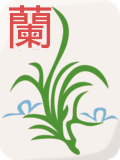
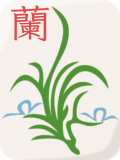
聯機胡牌轉送、離房語音與候房版面收尾

Changed region(s): [[0.075, 0.0312, 0.45, 0.3125]]

diff --git a/index.html b/index.html
@@ -9,7 +9,7 @@
 <link rel="preconnect" href="https://fonts.googleapis.com" />
 <link rel="preconnect" href="https://fonts.gstatic.com" crossorigin />
 <link href="https://fonts.googleapis.com/css2?family=Noto+Sans+TC:wght@400;500;700&display=swap" rel="stylesheet" />
-<link rel="stylesheet" href="css/style.css?v=1.4.60" />
+<link rel="stylesheet" href="css/style.css?v=1.4.62" />
 </head>
 <body>
 <canvas id="game" aria-label="釣魚遊戲畫面"></canvas>
@@ -122,6 +122,9 @@
     </label>
     <div id="roomAvatars" class="room-avatars" aria-label="玩家頭像"></div>
     <div id="roomPlayers" class="room-players"></div>
+    <div class="room-emoji-row">
+      <button id="roomEmojiBtn" class="secondary" type="button" aria-haspopup="true" aria-expanded="false">表情</button>
+    </div>
     <p id="roomGuestInfo" class="room-guest-info" hidden>(由房主設定)</p>
     <div id="roomHostControls" class="room-host-controls">
       <label class="field">鉤速
@@ -183,7 +186,6 @@
       </label>
     </div>
     <div class="room-actions">
-      <button id="roomEmojiBtn" class="secondary" type="button" aria-haspopup="true" aria-expanded="false">表情</button>
       <button id="roomStart" class="primary" type="button" hidden>開始遊戲</button>
       <button id="roomLeave" class="secondary" type="button">離開房間</button>
     </div>
@@ -268,7 +270,9 @@
     <p>Tiles: FluffyStuff / Lilia Chen May Wither, CC0.</p>
     <p><a href="https://github.com/FluffyStuff/riichi-mahjong-tiles" target="_blank" rel="noopener noreferrer">牌面素材（FluffyStuff）</a>　·　<a href="https://github.com/DrCMWither/mahjong-tiles" target="_blank" rel="noopener noreferrer">花牌素材（Lilia Chen May Wither）</a>　·　<a href="https://creativecommons.org/publicdomain/zero/1.0/" target="_blank" rel="noopener noreferrer">CC0 1.0</a></p>
     <p>Music: neolein / f-r-a-g-i-l-e / Ehved, CC0, via Freesound.</p>
+    <p>SFX: Detective_Lemons, CC0, via Freesound.</p>
     <p>背景音樂：四段 CC0 中國風器樂，來自 Freesound（neolein、f-r-a-g-i-l-e、Ehved）。</p>
+    <p>打牌音效：<a href="https://freesound.org/s/785585/" target="_blank" rel="noopener noreferrer">tiles fall on corkboard（Detective_Lemons）</a>，CC0；截取單次麻將牌撞擊聲。</p>
     <p><a href="https://freesound.org/s/573972/" target="_blank" rel="noopener noreferrer">A ride through chinese valley</a>　·　<a href="https://freesound.org/s/521367/" target="_blank" rel="noopener noreferrer">blossom valley in paradise</a>　·　<a href="https://freesound.org/s/666269/" target="_blank" rel="noopener noreferrer">lotus guzheng chops Cm</a>　·　<a href="https://freesound.org/s/565196/" target="_blank" rel="noopener noreferrer">Erhu Melodic Loop</a>　·　<a href="https://creativecommons.org/publicdomain/zero/1.0/" target="_blank" rel="noopener noreferrer">CC0 1.0</a></p>
     <p>花牌與番數規則：<a href="https://zh.wikipedia.org/wiki/%E9%A6%99%E6%B8%AF%E9%BA%BB%E9%9B%80%E8%83%A1%E7%89%8C%E5%88%97%E8%A1%A8" target="_blank" rel="noopener noreferrer">香港麻雀番牌列表（維基百科）</a>。</p>
     <p>詳見 <code>CREDITS.md</code>。</p>
@@ -276,6 +280,6 @@
 </section>
 
 <script src="https://cdn.jsdelivr.net/npm/peerjs@1.5.4/dist/peerjs.min.js" onerror="this.onerror=null;this.src='js/vendor/peerjs.min.js'"></script>
-<script type="module" src="js/game.js?v=1.4.60"></script>
+<script type="module" src="js/game.js?v=1.4.62"></script>
 </body>
 </html>

diff --git a/js/game.js b/js/game.js
@@ -7,7 +7,7 @@ import {
   TILE_IDS, TILE_INFO, FLOWER_IDS, isFlower, loadImages, drawTile,
   createTileElement, tileName,
 } from './tiles.js';
-import { createMusic } from './audio.js?v=1.4.60';
+import { createMusic } from './audio.js?v=1.4.62';
 import { createNet, randomPlayerId } from './net.js';
 import { settleRound } from './payout.js';
 import {
@@ -499,6 +499,12 @@ function showToast(text, ms = 4500) {
     ui.toast.classList.remove('show');
     game.toastTimer = null;
   }, ms);
+}
+
+/** Room notices are shown and read aloud; unsupported browsers stay silent. */
+function announceNotice(text, ms) {
+  showToast(text, ms);
+  speakCantonese(text);
 }
 
 /** Floating emoji bubbles appear beside each seat's avatar on the sea. */
@@ -3283,6 +3289,7 @@ function showHostLeft() {
     message: '房主已離開，請重新開房間',
     actions: [{ label: '返回主選單', onClick: () => ui.overlay.classList.remove('show') }],
   });
+  speakCantonese('房主已離開，請重新開房間');
 }
 
 function leaveMultiRoom() {
@@ -3483,12 +3490,16 @@ function wireNetEvents() {
   });
 
   net.on('win', (msg) => {
+    // Relay before validating locally: a guest's match snapshot can be one
+    // message behind the host's, but the other seats may still share that
+    // guest's round key. Dropping the notice here would leave them playing
+    // after the winner already settled.
+    if (net.isHost && msg.seat !== game.seat) net.broadcast(msg);
     // Repeats help surviving a dropped WebRTC message, but a win from an
     // already finished hand must never settle the next one.
     const liveKey = currentRoundKey();
     if (msg.roundKey && msg.roundKey !== liveKey
       && msg.roundKey !== game.match?.lastPayout?.roundKey) return;
-    if (net.isHost && msg.seat !== game.seat) net.broadcast(msg);
     const selfDraw = msg.selfDraw === undefined ? winIsSelfDraw(msg.result) : Boolean(msg.selfDraw);
     finishMultiWin(msg.seat, msg.result, msg.fanTotal, msg.bestFan, {
       discarder: msg.discarder ?? null,
@@ -3607,13 +3618,13 @@ function wireNetEvents() {
     const name = typeof msg.name === 'string' && msg.name.trim()
       ? msg.name : seatLabel(msg.seat);
     const text = `${name} 已離開房間。`;
-    showToast(text);
+    announceNotice(text);
     net.broadcast({ t: 'notice', message: text }, conn?.peer);
     fillSeatWithBot(game.players.find((item) => item.seat === msg.seat));
   });
 
   net.on('notice', (msg) => {
-    if (typeof msg.message === 'string') showToast(msg.message);
+    if (typeof msg.message === 'string') announceNotice(msg.message);
   });
 
   net.on('guestClose', (msg) => {
@@ -3623,7 +3634,7 @@ function wireNetEvents() {
     // A tab can close without sending `leave`; notify the remaining seats in
     // that case too. An explicit leave has already cleared the playerId above.
     const text = `${leaving.name || seatLabel(leaving.seat)} 已離開房間。`;
-    showToast(text);
+    announceNotice(text);
     net.broadcast({ t: 'notice', message: text });
     fillSeatWithBot(leaving);
   });

diff --git a/js/audio.js b/js/audio.js
@@ -112,9 +112,10 @@ export function createMusic() {
     }
   }
 
-  // Short synthesised UI effects. They share the music on/off switch and
-  // volume, need no assets, and are created only after a user gesture.
+  // The click is synthesised; the tile strike is a short CC0 Freesound
+  // recording. Both share the music on/off switch and volume.
   let context = null;
+  const TILE_SOUND = 'assets/audio/mahjong-tile-strike.mp3?v=1.4.61';
 
   function ensureContext() {
     if (context) return context;
@@ -150,8 +151,13 @@ export function createMusic() {
   }
 
   function tile() {
-    blip(210, 0.085, 'square', 0.16);
-    blip(330, 0.055, 'triangle', 0.1);
+    if (!enabled || volume <= 0) return;
+    try {
+      const effect = new Audio(TILE_SOUND);
+      effect.volume = Math.min(1, volume * 1.1);
+      const result = effect.play();
+      if (result?.catch) result.catch(() => {}); // sound is optional
+    } catch { /* sound is optional */ }
   }
 
   return {

diff --git a/css/style.css b/css/style.css
@@ -592,6 +592,8 @@ body.waiting-room #meldPanel { visibility: hidden; }
 }
 .room-player.you { background: rgba(140, 29, 29, 0.12); font-weight: 700; }
 .room-player-role { color: #666; font-size: 0.85em; }
+.room-emoji-row { display: flex; justify-content: center; margin: -4px 0 10px; }
+#roomEmojiBtn { background: #fff; color: #8c1d1d; border-color: #8c1d1d; padding: 4px 18px; }
 .room-host-controls { margin: 10px 0; text-align: left; }
 .room-host-controls.readonly .field { opacity: 0.72; }
 .room-host-controls.readonly input,

diff --git a/js/tiles.js b/js/tiles.js
@@ -99,7 +99,7 @@ export const EMOJI_TO_ID = Object.fromEntries(
 export const BACK_ID = 'BACK';
 export const TILE_IMAGE_DIR = 'assets/tiles/faces';
 // Bump after replacing runtime faces so browsers reload them without a hard refresh.
-export const TILE_ASSET_VERSION = 4;
+export const TILE_ASSET_VERSION = 5;
 
 export function tileImagePath(id) {
   const suffix = `?v=${TILE_ASSET_VERSION}`;

diff --git a/AGENTS.md b/AGENTS.md
@@ -64,7 +64,7 @@ the audio helper changes so UI sounds are not cached separately.
 | `js/payout.js` | Pure payout/settlement engine. Node-runnable; no DOM or storage. |
 | `js/game.js` | Browser orchestration: state machine, shared sea, canvas rendering, input, AI, network messages, HUD, settings and score UI. |
 | `js/net.js` | Thin PeerJS wrapper: room IDs, host/guest connections, message relay. |
-| `js/audio.js` | CC0 background-music player: five tracks, random next track, enable/volume controls. |
+| `js/audio.js` | CC0 background-music player plus a short CC0 tile-strike effect; enable/volume controls. |
 | `js/vendor/peerjs.min.js` | Local fallback when the CDN script fails. |
 | `assets/` | Runtime tile faces, underwater background, five MP3s. Source originals live under `assets/tiles/raw/` and `assets/bg/underwater.source.jpg`. |
 | `scripts/` | Asset download and processing scripts. Not part of runtime. |
@@ -294,8 +294,10 @@ T1–T13. Keep the seeded simulation meaningful: no exceptions, `wins > 0`, and 
 - **Authority.** The host owns the room code, seat list, fish sea, host-clock timer, catch and
   claim arbitration, AI seats, settings, and match snapshots. Guards keep private hands on each
   device: there is no dealing, no hand validation, and no server. Win results are evaluated
-  locally then broadcast with a `roundKey`; the host relays and settles with `win` + `match`, and
-  `match` alone is enough for a guest to show the terminal overlay if `win` was dropped.
+  locally then broadcast with a `roundKey`; the host relays `win` before checking its own round
+  key, then settles with `win` + `match`, so a guest whose match snapshot is one message behind
+  still reaches the other seats. `match` alone is enough for a guest to show the terminal overlay
+  if `win` was dropped.
 - **Message types.** `welcome`, `full`, `players`, `name`, `settings`, `start`, `discard`, `sea`,
   `time`, `hook`, `catch`, `catchRejected`, `fishCaught`, `flowers`, `claim`, `claimResult`,
   `meld`, `win`, `match`, `draw`, `emoji`, `rematch`, `rematchStatus`, `backToRoom`, `restartRequest`,
@@ -324,8 +326,9 @@ T1–T13. Keep the seeded simulation meaningful: no exceptions, `wins > 0`, and 
   `pagehide` and `beforeunload` call `notifyOthersOnExit()`: a closing guest sends `leave` to the
   host, a closing host broadcasts `hostGone` to guests, so seats change immediately instead of
   waiting for the WebRTC timeout. One notice per room is enforced across both events and reset
-  when a new room opens or a guest receives `welcome`. Guest departures show a notice and leave
-  the seat to AI; a deliberate leaver does not see the host-left message.
+  when a new room opens or a guest receives `welcome`. Guest departures show and speak a notice
+  on every remaining device and leave the seat to AI; a host departure speaks the fixed message.
+  A deliberate leaver does not see the host-left message.
 
 ## UI, HUD and layout
 
@@ -365,16 +368,17 @@ T1–T13. Keep the seeded simulation meaningful: no exceptions, `wins > 0`, and 
   stay visible but disabled while the rod is out; the grey `過` dismissal stays enabled and hides
   only its own box.
 - The `表情` chip opens a fixed emoji picker (`emojiPanel`) with 12 emojis; the same chip and id
-  `roomEmojiBtn` also sit in the waiting-room `room-actions`, available to host and guests before
-  the deal. `toggleEmojiPanel(anchor)` positions the picker under whichever chip was pressed.
+  `roomEmojiBtn` sits directly under `#roomPlayers` in the waiting room, available to host and
+  guests before the deal. `toggleEmojiPanel(anchor)` positions the picker under whichever chip was
+  pressed.
   Picking an emoji calls `sendEmoji()`, sends `{t:'emoji', seat, emoji}` (host relays to other
   guests) and appends a `#emojiLayer` bubble beside that seat's sea avatar, or beside the matching
   `.room-avatar` while `body.waiting-room` is active. The layer sits above modals (`z-index:65`) but
   is `pointer-events:none` so casts, room controls and HUD clicks still work; bubbles remove
   themselves on `animationend`. The picker closes on outside click, Escape, resize or selection.
-- A document-level click listener plays a short WebAudio click for every enabled `<button>`, and
-  `discard()` plays a tile clap via `music.tile()`. Both live in `js/audio.js`, share the
-  `mf-sound` / `mf-volume` settings, and need no new assets or storage keys.
+- A document-level click listener plays a short WebAudio click for every enabled `<button>`, while
+  `discard()` plays `assets/audio/mahjong-tile-strike.mp3` via `music.tile()`. Both live in
+  `js/audio.js` and share the `mf-sound` / `mf-volume` settings; no storage keys are added.
 - Modals: ordinary modals close on backdrop click, but `overlay`, `loading`, `menuScreen`,
   `joinScreen` and `roomScreen` never do. The in-game 設定／玩法說明／計分 panels and the
   `重新開始投票` overlay are informational — they block input but not simulation. In-game

diff --git a/CREDITS.md b/CREDITS.md
@@ -6,7 +6,7 @@
 - 授權：**CC0 1.0**（公有領域貢獻）。
 - 處理方式：透明牌面疊加在 `Front.png` 上，再縮放為 120×160 的 `assets/tiles/faces/*.png`。原始下載檔保留在 `assets/tiles/raw/`，以便重新產生。
 - 8 張花牌（春、夏、秋、冬、梅、蘭、菊、竹）改用 [DrCMWither/mahjong-tiles](https://github.com/DrCMWither/mahjong-tiles) 的 `tiles-tmp/1f.svg`–`8f.svg`，作者 **Lilia Chen May Wither**；artwork 延展自上述 FluffyStuff 牌面，並以 **CC0 1.0** 發布。原始 SVG 與預先柵格化的 PNG 存放於 `assets/tiles/raw/flowers/`，再由 `scripts/process_assets.py` 疊在上述 CC0 `Front.png` 底圖上並縮放為 120×160 的 `H1.png`–`H8.png`。
-- 「蘭」牌 `H6.png` 上的紅色字樣已由簡體「兰」修正為繁體「蘭」；其餘花牌 artwork 保持原樣。
+- 「蘭」牌 `H6.png` 的紅色字樣已由簡體「兰」修正為繁體「蘭」，並改用與其他花牌相近的楷書筆觸。字形輪廓取自 [LXGW WenKai TC](https://fonts.google.com/specimen/LXGW+WenKai+TC)（SIL Open Font License 1.1），已轉成路徑內嵌於 `6f.svg`；其餘花牌 artwork 保持原樣。
 
 > Tiles: FluffyStuff / Lilia Chen May Wither, CC0.
 
@@ -34,6 +34,12 @@
 - 授權條款：[CC0 1.0 Universal](https://creativecommons.org/publicdomain/zero/1.0/)。
 - 處理方式：下載 Freesound 的 HQ MP3 預覽檔，原檔放置在 `assets/audio/`，由 `js/audio.js` 隨機播放；每首播完後切換到不同曲目。
 
+## 打牌音效
+
+- 來源：[Detective_Lemons – tiles fall on corkboard](https://freesound.org/s/785585/)，Freesound，原本為電影《mahjong cowboy》錄製的麻將牌碰撞聲。
+- 授權：**CC0 1.0**（公有領域貢獻）。
+- 處理方式：從 HQ MP3 預覽檔截取一次清晰的牌張撞擊，正規化音量並加上極短淡入淡出，輸出為 `assets/audio/mahjong-tile-strike.mp3`；按鈕點擊音仍由 WebAudio 合成。
+
 ## 規則資料
 
 - 花牌、正花、一檯花、花糊與大花糊的番數及風位對應，參考[維基百科「香港麻雀番牌列表」](https://zh.wikipedia.org/wiki/%E9%A6%99%E6%B8%AF%E9%BA%BB%E9%9B%80%E8%83%A1%E7%89%8C%E5%88%97%E8%A1%A8)。
@@ -42,6 +48,7 @@
 ## 字型
 
 - [Noto Sans TC](https://fonts.google.com/noto/specimen/Noto+Sans+TC)，透過 Google Fonts 載入，SIL Open Font License 1.1。
+- 「蘭」花牌的楷書字形輪廓取自 [LXGW WenKai TC](https://fonts.google.com/specimen/LXGW+WenKai+TC)，SIL Open Font License 1.1；字型檔不包含在專案內，只嵌入產生的向量輪廓。
 - 若無法連線，會退回系統字型（PingFang TC / Microsoft JhengHei / system-ui）。
 
 ## 遊戲內標示
@@ -51,5 +58,5 @@
 完整字串：
 
 ```
-Background: Olivier Dugornay / Ifremer, CC BY 4.0, via Wikimedia Commons. Tiles: FluffyStuff / Lilia Chen May Wither, CC0. Music: neolein / f-r-a-g-i-l-e / Ehved, CC0, via Freesound.
+Background: Olivier Dugornay / Ifremer, CC BY 4.0, via Wikimedia Commons. Tiles: FluffyStuff / Lilia Chen May Wither, CC0. Music: neolein / f-r-a-g-i-l-e / Ehved, CC0, via Freesound. SFX: Detective_Lemons, CC0, via Freesound.
 ```

diff --git a/CHANGELOG.md b/CHANGELOG.md
@@ -2,6 +2,17 @@
 
 本專案由單檔 `index.html` 重構為純靜態多檔結構；所有原本列出的問題 B1–B25 都已修復或改由新的規則引擎保證，並以 `tests/rules.test.mjs`（64 項，含 T1–T13 與 1000 場隨機模擬）驗證。
 
+## 1.4.62 — 訪客胡牌同步與離房語音
+
+- 房主收到訪客的胡牌訊息時先轉送給其他座位，再檢查自己的局次；即使訪客的間局快照落後房主一步，其他玩家仍會收到並顯示同一個胡牌結算畫面。
+- 玩家離開房間時，剩餘裝置除了顯示提示，也會以粵語讀出離開者姓名；房主離開時讀出固定的「房主已離開，請重新開房間」。語音如前為加分功能，不影響連線或遊戲。
+
+## 1.4.61 — 候房表情位置、真實打牌音效與花牌字形
+
+- 候房「表情」按鈕移到四位玩家座位清單正下方，房主與訪客都更容易找到；開門表情選擇器仍會在按鈕下方展開。
+- 打出牌的碰撞聲改用 Freesound CC0 錄音中截取的單次麻將牌撞擊聲，按鈕點擊音維持 WebAudio 合成；兩者仍受「背景音樂」開關與音量控制。
+- 「蘭」花牌的紅色字樣改用與其他花牌相近的楷書筆觸，字型輪廓已內嵌於原始 SVG，並重新產生 120×160 牌面；素材來源與授權已補充於 `CREDITS.md`。
+
 ## 1.4.60 — 聯機胡牌同步、候房表情、音效與粵語宣告
 
 - 胡牌訊息加入局次識別並重送數次；房主同時以派彩快照補發結算，即使某一則 WebRTC 訊息遺失，其他玩家也會看到同一個胡牌結算畫面，舊局的延遲訊息不會影響新局。
